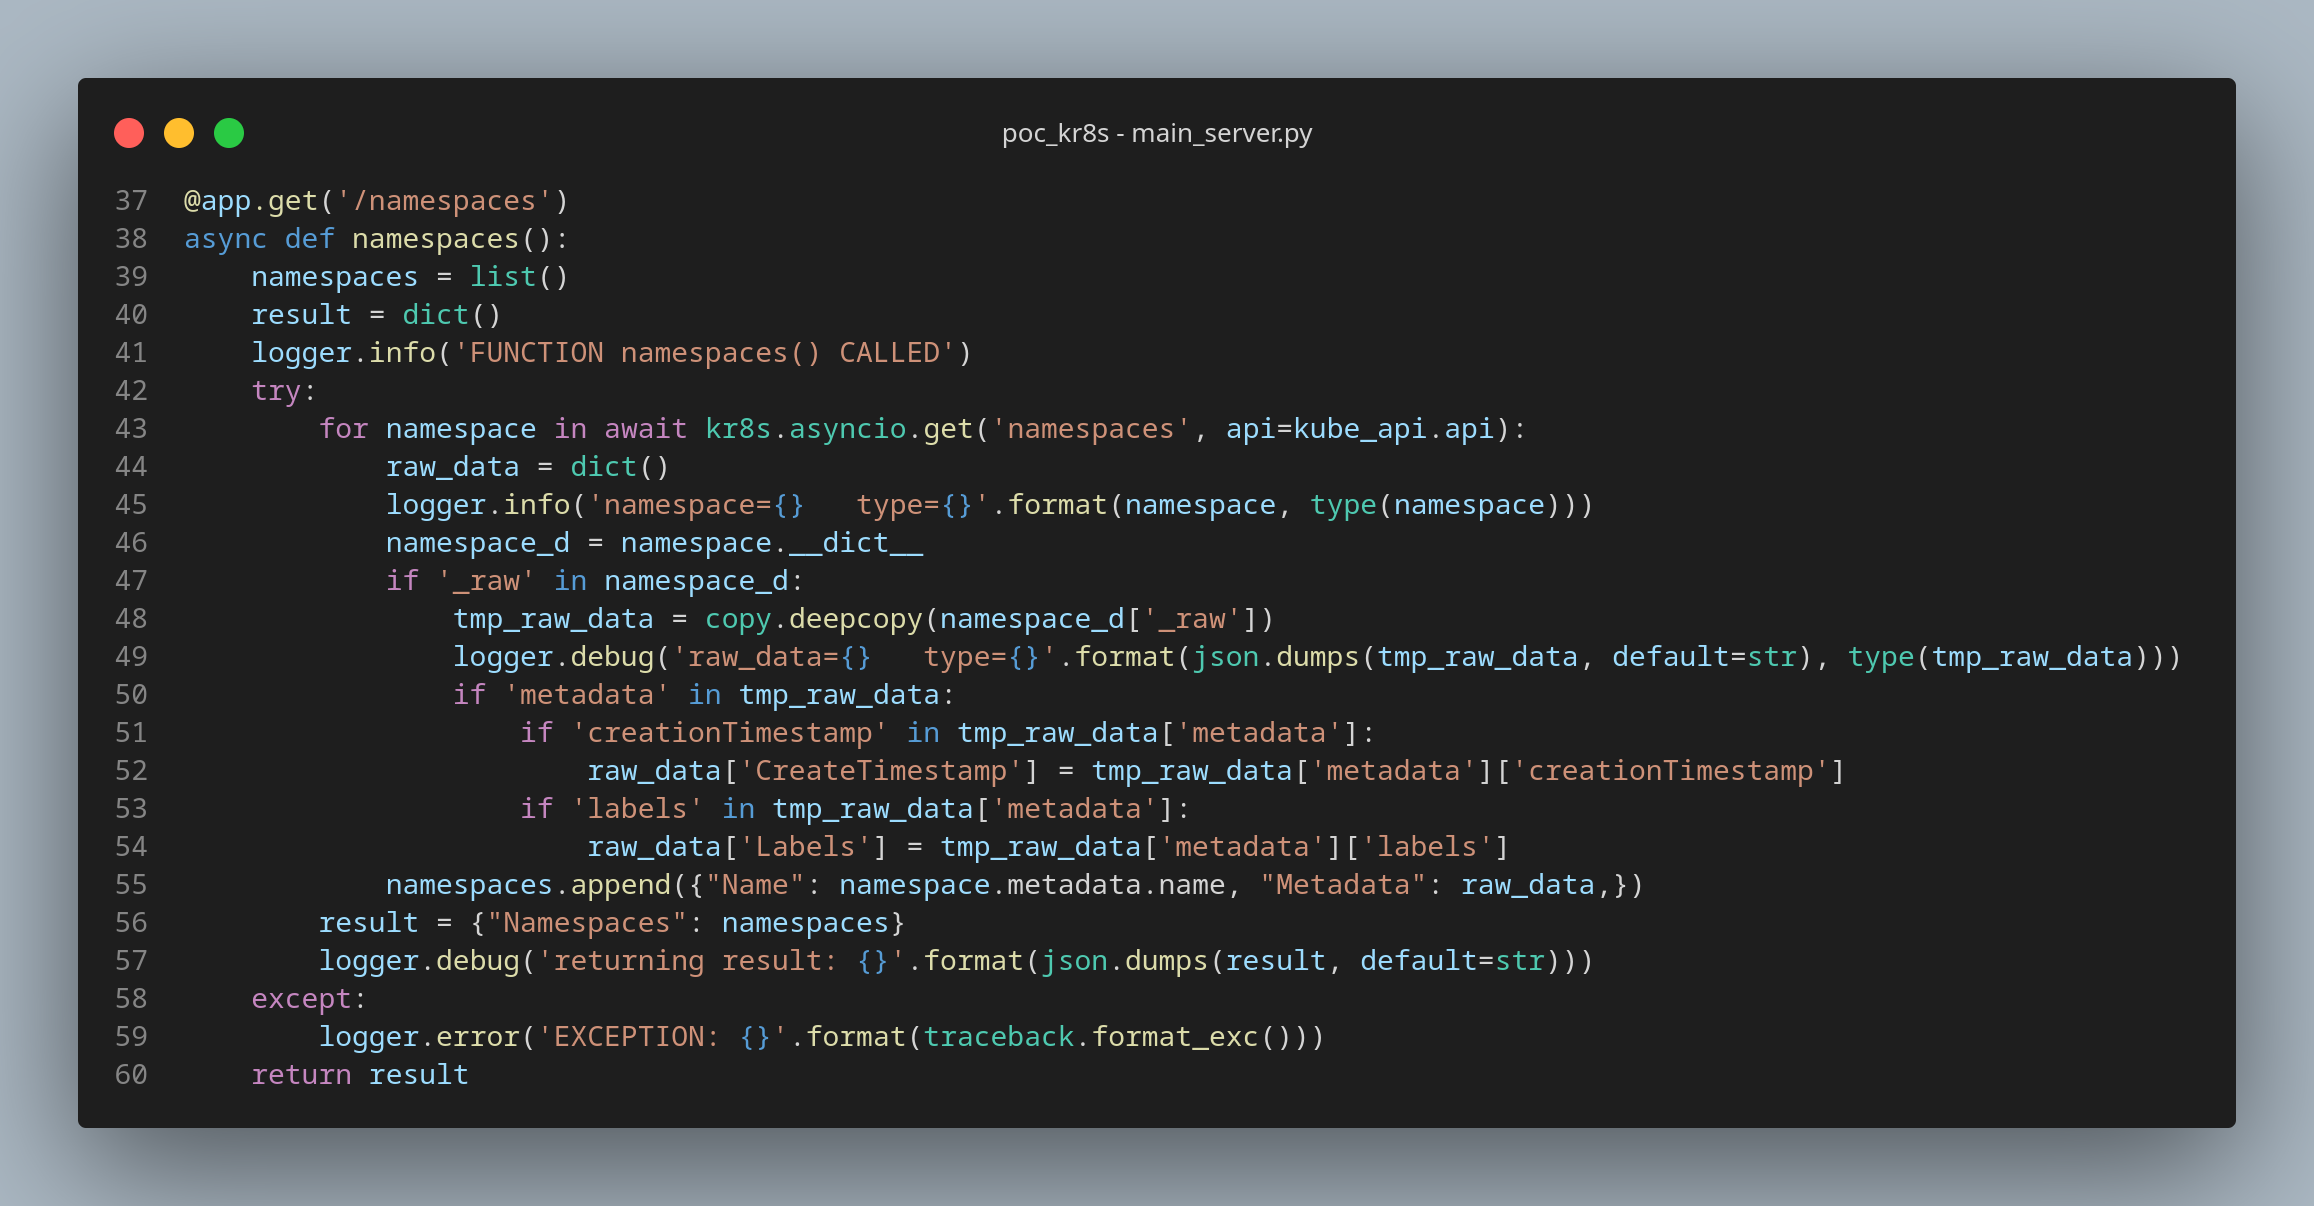
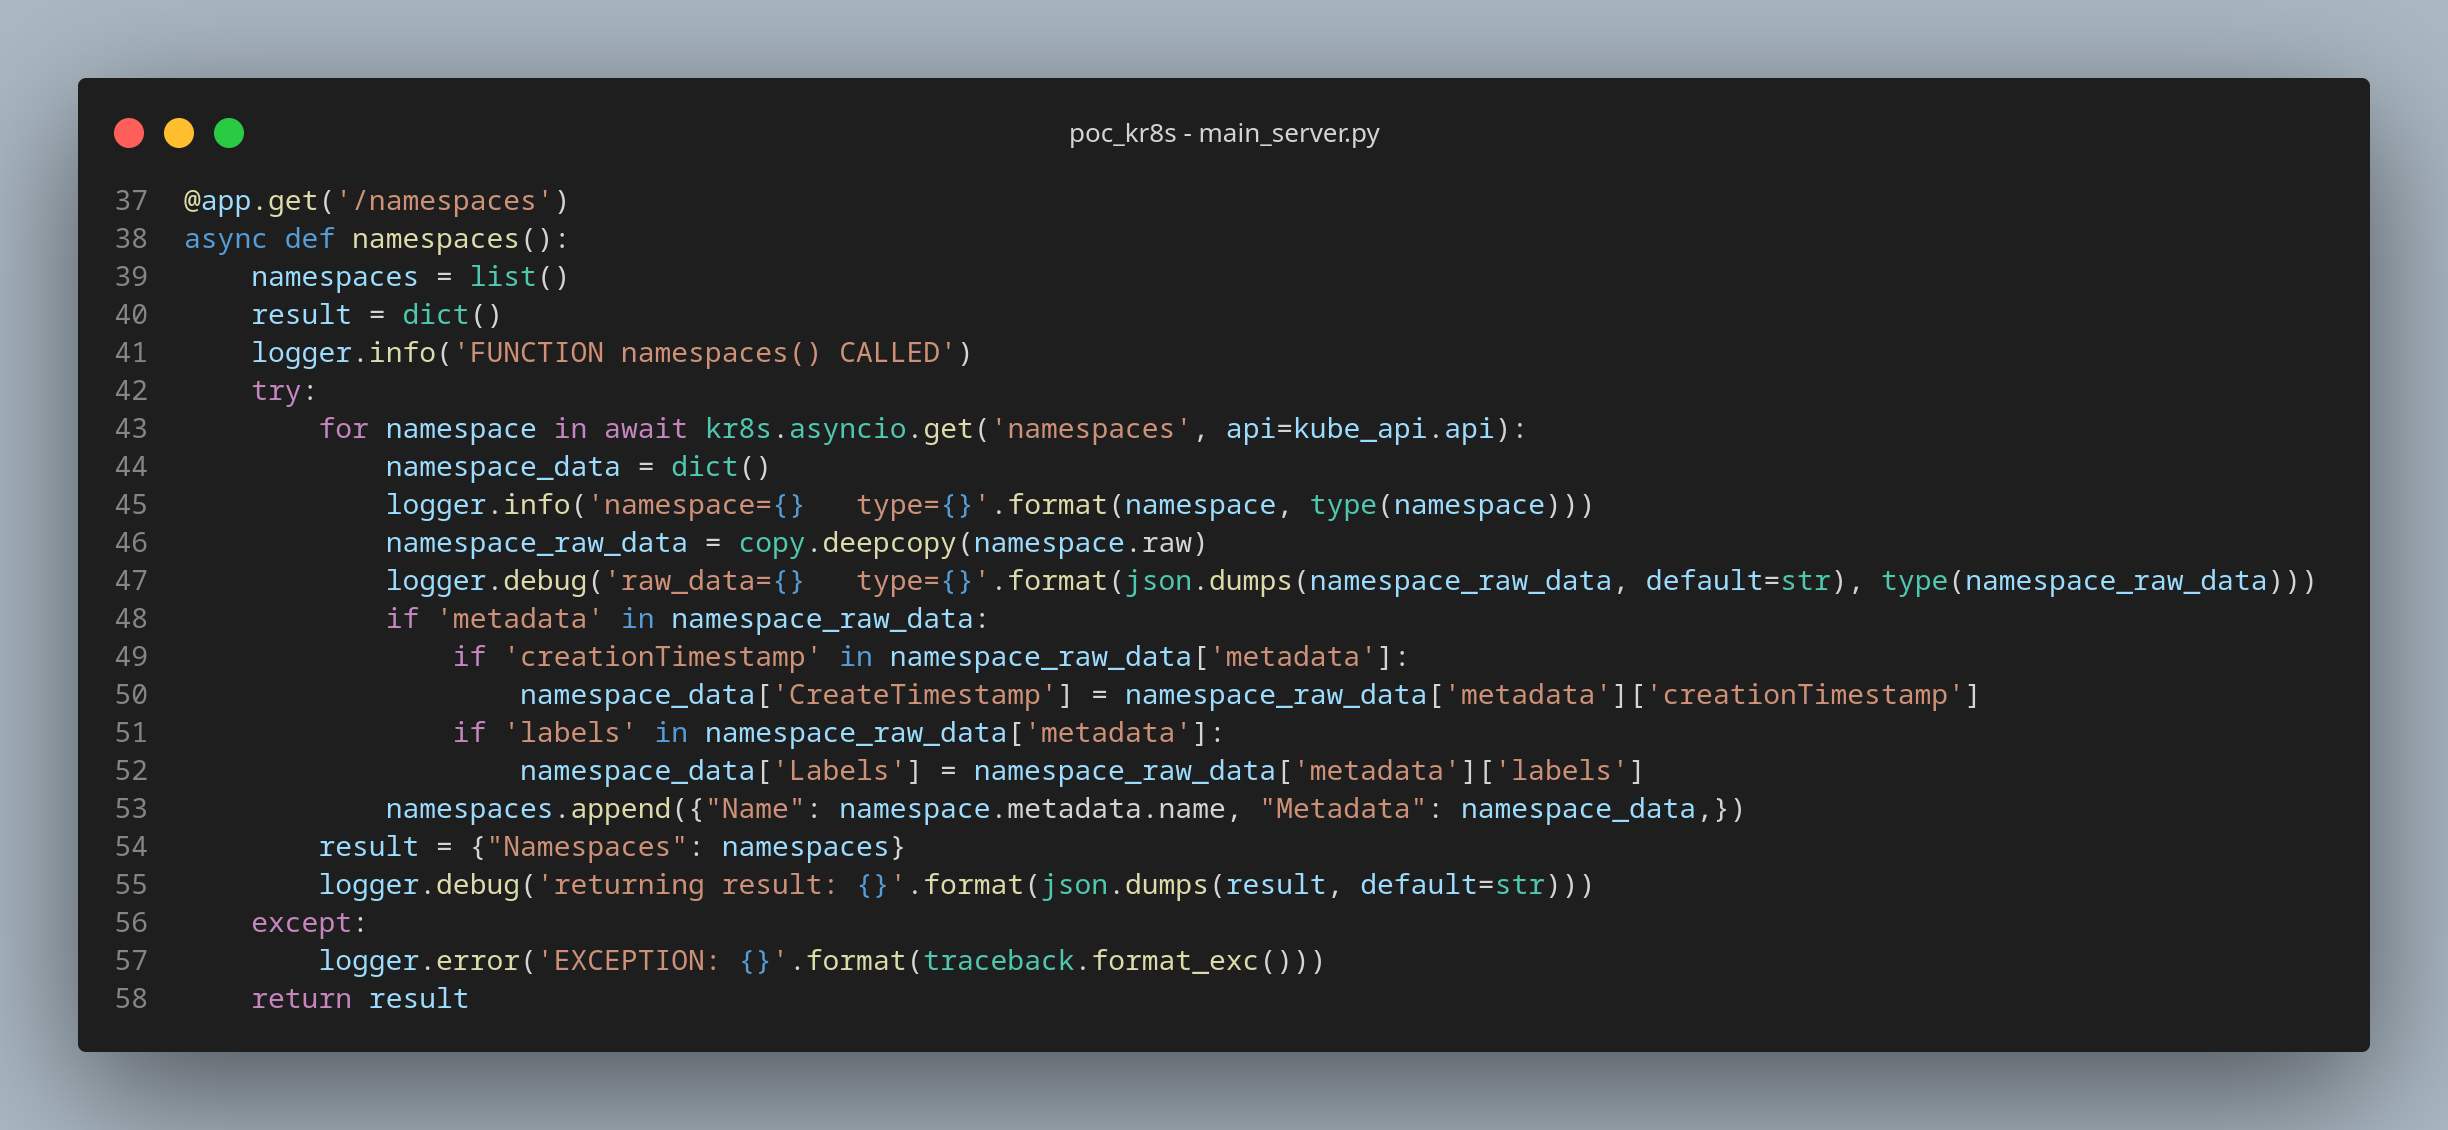
Blog post 2023-10-14

Changed region(s): [[0.0311, 0.0619, 0.9646, 0.8982], [0.0311, 0.9292, 0.9646, 0.9602]]

diff --git a/site-src/docs/blog/2023/2023-10-14.md b/site-src/docs/blog/2023/2023-10-14.md
@@ -7,7 +7,7 @@ It's always nice to discover a new tool that really make your life easier. I hav
 As is more or less now my standard way to evaluate projects, I created a little proof of concept project to explore the basics.
 
 > **Note**
-> My experimental code is in the GitHub project [poc_kr8s](https://github.com/nicc777/poc_kr8s) - the examples I discuss and demonstrate here is based on this repository. More specifically, this blog post relates to [version v0.0.20](https://github.com/nicc777/poc_kr8s/tree/v0.0.20) of this repository.
+> My experimental code is in the GitHub project [poc_kr8s](https://github.com/nicc777/poc_kr8s) - the examples I discuss and demonstrate here is based on this repository. More specifically, this blog post relates to [version v0.0.21](https://github.com/nicc777/poc_kr8s/tree/v0.0.21) of this repository.
 
 I have made a number of observation document in the Git repository so I will not repeat them again here. In stead, I will just quickly give a more visual tour of what I found.
 
@@ -47,11 +47,10 @@ The code itself should be pretty straight forward. The real magic is only in a n
 
 Some noteworthy lines to look at in more detail:
 
-| Line # | Description / Explanation                                                                          |
-|:------:|----------------------------------------------------------------------------------------------------|
-| 43     | The call to Kubernetes is done to retrieve the namespaces. Note that this is a asynchronous call.  |
-| 46     | For easier data transformation I converted the data object directly to a normal Python dictionary. Earlier I had a line to log the actual dictionary content from where I could figure out what information was what I needed. That line was removed, but since every object seems to have the `_raw` keyword, you can also just look at the returned data from the log entry from line 49. |
-| 48     | I had to work on a copy of the data, else the `fastapi` framework would through an exception.      |
+| Line # | Description / Explanation                                                                                                                                                                        |
+|:------:|--------------------------------------------------------------------------------------------------------------------------------------------------------------------------------------------------|
+| 43     | The call to Kubernetes is done to retrieve the namespaces. Note that this is a asynchronous call.                                                                                                |
+| 46     | For easier data transformation I converted the data object directly to a normal Python dictionary. I had to work on a copy of the data, else the `fastapi` framework would through an exception. |
 
 > **Warning**
 > This is code for experimenting, hence the total lack of security, overkill on log statements as well as using pretty neutral variable names. On larger projects aimed to be used in production clusters you must pay a lot closer attention to these aspects. This code does not represent best practice, but rather just at functionally what to expect from a specific library - in this case `kr8s`
